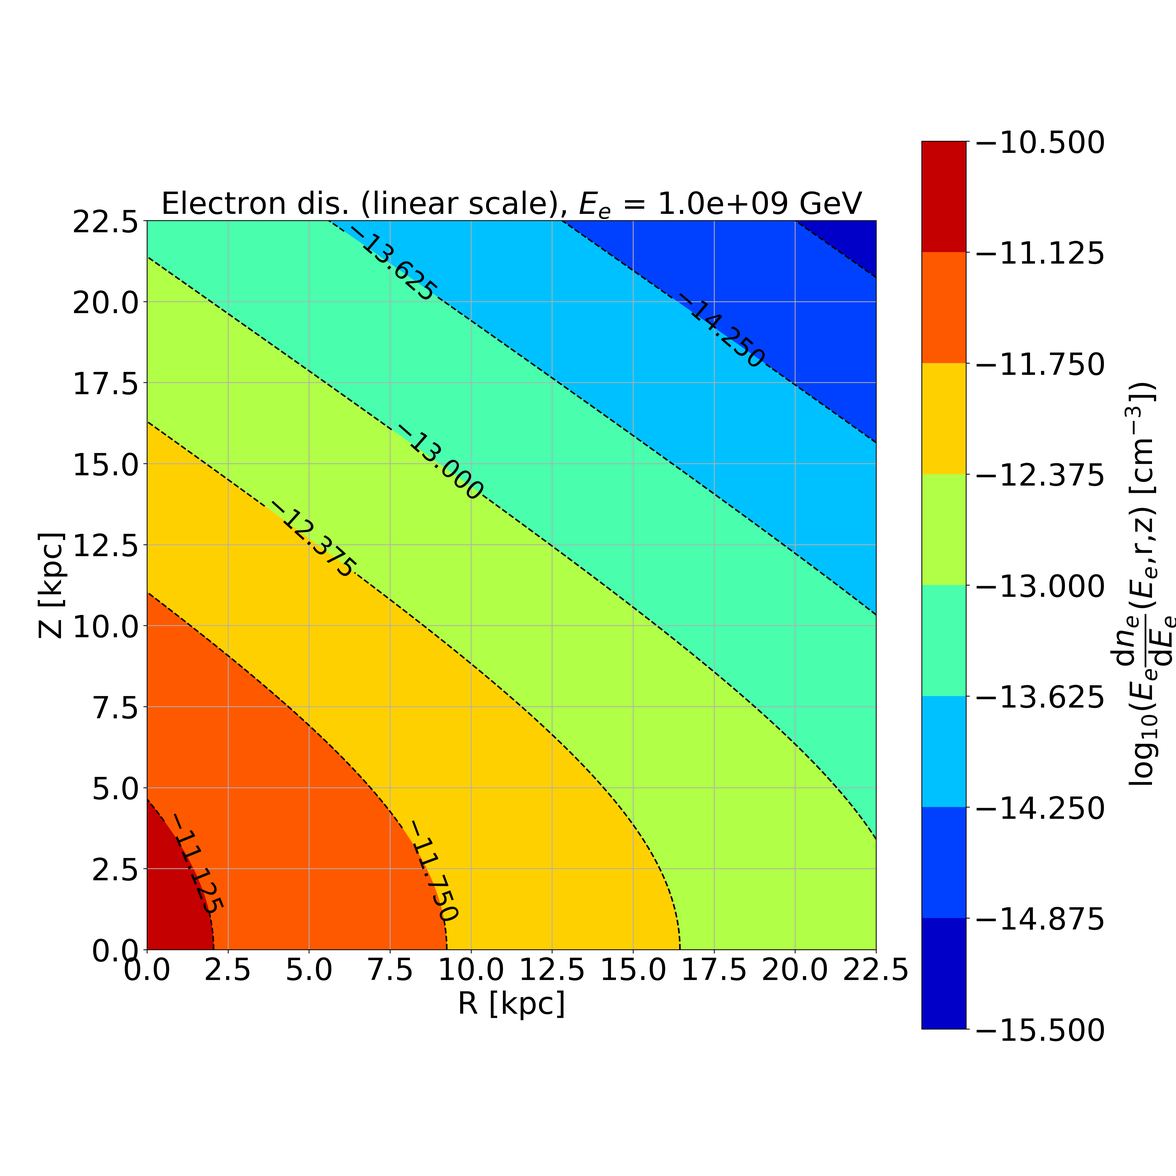
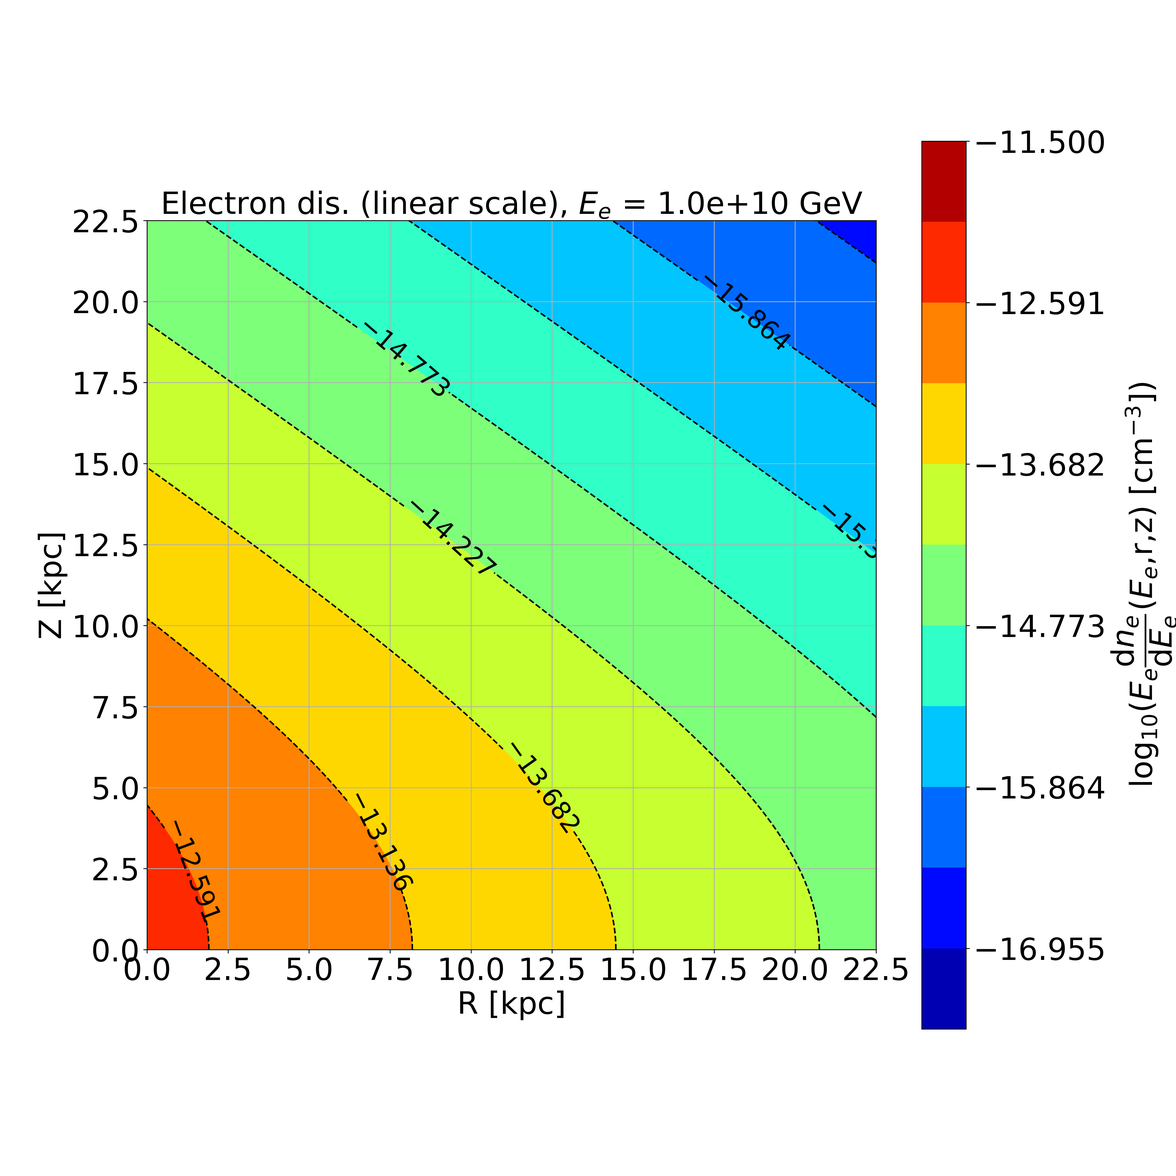
Feb 6

diff --git a/main.tex b/main.tex
@@ -10,6 +10,9 @@
 \usepackage{xspace}
 \usepackage{array}
 \usepackage{cuted}
+\usepackage{tikz}
+\newcommand{\tikzcircle}[2][red,fill=red]{\tikz[baseline=-0.5ex]\draw[#1,radius=#2] (0,0) circle ;}%
+
 \DeclareGraphicsRule{.tif}{png}{.png}{`convert #1 `dirname #1`/`basename #1 .tif`.png}
 
 \definecolor{dg}{rgb}{0.0, 0.6, 0.1}
@@ -73,6 +76,7 @@ The observations from FERMI-LAT \cite{Su_2010} in the gamma ray regime unveiled 
 % Observations from S-PASS and Planck
 With the help of the aforementioned techniques, we can estimate the strength and direction of the magnetic field in different parts of the Galaxy. 
 For the Galactic halo the S-PASS \cite{Carretti_2013} observations  made at 2.3 GHz seem to suggest that the field strength in the halo bubbles can be anywhere between $6-10~\mu $G depending on the proton-electron ratio value adopted. S-PASS \cite{Carretti_2013} observations however are subject to depolarisation of polarised synchrotron radiation via Faraday rotation due to its relatively low observation frequencies. Additionally this data set is not sensitive to a portion of the Fermi bubble region of the sky due to the ground-based location of the instrument allowing only observations in the southern terrestrial hemisphere. For this reason data from Planck and WMAP are more helpful when probing magnetic fields in the Galactic halo due to their all-sky coverage and observation bandwidths which are not sensitive to Faraday rotation effects.
+
 % Short note on non-thermal electron distribution.
 Knowledge of non-thermal electron distribution is critical in the modelling of Galactic magnetic fields, which are both required inputs for the determination of synthetic synchrotron maps.
 We have direct information on the distribution of cosmic ray electrons at Earth from the observations made by AMS01 \cite{AMS_2002} \& \cite{AMS_2014}, CALET \cite{Calet_2017}, DAMPE \cite{Dampe_2017}. However, we do not have much knowledge of the electron distribution in the Galaxy.
@@ -86,7 +90,7 @@ Several efforts have  been made to model the magnetic fields in the Galaxy namel
 %However, when modelling Galactic magnetic fields, Galactic cosmic ray electrons are not the only particles of interest. 
 
 % Importance of UHECRs
-The propagation of cosmic rays is vital to understand their sources, and this in turn is limited by our understanding of the intervening magnetic fields. Unfortunately, both Galactic and extragalactic magnetic fields are presently poorly understood. Arrival direction of extragalactic cosmic rays (with energies higher than $\approx$~$10^{18}$) are also known as ultra high energy cosmic rays (UHECRs). These UHECRs are constituted by charged protons or nuclei, and therefore their origin directions are scrambled by the magnetic fields in the path between the source and earth. The paths of these UHECRs can therefore be drastically changed depending on the strength and geometry of the field. Different models of the Galactic magnetic field give vastly different predictions for the deflection of UHECRs (see e.g.~Ref.~ \cite{FARRAR_2014} \textcolor{blue}{ADD REF}). Recently, significant anisotropies in the UHECR sky have been discovered (see \cite{ICRC_2021} \cite{Auger_Starburst2018} \& \cite{ICRC_2019}. Due to the deflections in the Galactic magnetic fields, the interpretation of these results in terms of the localisation of the UHECR sources is extremely hard and hence, knowledge of Galactic magnetic fields is extremely important. 
+The propagation of cosmic rays is vital to understand their sources, and this in turn is limited by our understanding of the intervening magnetic fields. Unfortunately, both Galactic and extragalactic magnetic fields are presently poorly understood. Arrival direction of extragalactic cosmic rays (with energies higher than $\approx$~$10^{18}$) are also known as ultra high energy cosmic rays (UHECRs). These UHECRs are constituted by charged protons or nuclei, and therefore their origin directions are scrambled by the magnetic fields in the path between the source and earth. The paths of these UHECRs can therefore be drastically changed depending on the strength and geometry of the field. Different models of the Galactic magnetic field give vastly different predictions for the deflection of UHECRs (see e.g.~Ref.~ \cite{JF12},\cite{FARRAR_2014}, \cite{PT11_2011}, \cite{Sun_2008}, \cite{Sun_2010}). Recently, significant anisotropies in the UHECR sky have been discovered (see \cite{ICRC_2021} \cite{Auger_Starburst2018} \& \cite{ICRC_2019}. Due to the deflections in the Galactic magnetic fields, the interpretation of these results in terms of the localisation of the UHECR sources is extremely hard and hence, knowledge of Galactic magnetic fields is extremely important. 
 
 %TA hotspot reference: R. U. Abbasi et al. [Telescope Array collab.], ApJL 790 (2014) L21.
 
@@ -139,7 +143,7 @@ where $\frac{\mathrm{d}n_e}{\mathrm{dlog}E_{e}}$ is the differential electron de
 \centering
 \includegraphics[width=0.49\linewidth]{Images/Linear_EdNdE.png}%
 \includegraphics[width = 0.49\linewidth]{Images/Log_EdNdE.png}
-\caption{An example of the electron distribution for an electron energy (say) $E_e = $1~GeV, $R_{\mathrm{el}} = 5$ kpc and $Z_{\mathrm{el}} = 7$~kpc in linear scale on left and log-scale on right. Since the electron distribution spectra peaks at 1~GeV we show the distribution for 1~GeV. $C_\mathrm{norm}$ value for this plot is $10^{-12.43}~{\rm cm}^{-3}$ (see table~\ref{Para_table}). \Andrew{Think density plot for 10~GeV electrons would make more sense (to avoid confusion).}}  %\Andrew{Why is ref. density in plots so low?}}
+\caption{An example of the electron distribution for an electron energy (say) $E_e = $10~GeV, $R_{\mathrm{el}} = 5$ kpc and $Z_{\mathrm{el}} = 7$~kpc in linear scale on left and log-scale on right.$C_\mathrm{norm}$ value for this plot is $10^{-12.43}~{\rm cm}^{-3}$ (see table~\ref{Para_table}).}  %\Andrew{Why is ref. density in plots so low?}}
 \label{fig:electron_density}
 \end{figure*}
 
@@ -157,7 +161,7 @@ The two polarisation emission components, $J_{\perp}$ and $J_{\parallel}$, descr
 
 %\begin{strip}
 \begin{equation}
- {J_{\perp}^l} = k  \int_{\mathrm{log}E_e^{\mathrm{min}}}^{\mathrm{log}E_e^{\mathrm{max}}}\mathrm{dlog}E_{e} \  \frac{\mathrm{d}n_e}{\mathrm{dlog}E_{e}} \  \left[F\left(\frac{E_{\gamma}}{E_{\gamma}^{\mathrm{peak}}}\right) + G\left(\frac{E_{\gamma}}{E_{\gamma}^{\mathrm{peak}}}\right)\right] \
+ {J_{\perp}^l} = t  \int_{\mathrm{log}E_e^{\mathrm{min}}}^{\mathrm{log}E_e^{\mathrm{max}}}\mathrm{dlog}E_{e} \  \frac{\mathrm{d}n_e}{\mathrm{dlog}E_{e}} \  \left[F\left(\frac{E_{\gamma}}{E_{\gamma}^{\mathrm{peak}}}\right) + G\left(\frac{E_{\gamma}}{E_{\gamma}^{\mathrm{peak}}}\right)\right] \
  \label{Jperp}
 \end{equation}
 %\end{strip}
@@ -167,7 +171,7 @@ and,
 %\begin{strip}
 %\begin{widetext}
 \begin{equation}
-{J_{\parallel}^l} = k \int_{\mathrm{log}E_e^{\mathrm{min}}}^{\mathrm{log}E_e^{\mathrm{max}}}\mathrm{dlog}E_{e} \ \frac{\mathrm{d}n_e}{\mathrm{dlog}E_{e}} \  \left[F\left(\frac{E_{\gamma}}{E_{\gamma}^{\mathrm{peak}}}\right) - G\left(\frac{E_{\gamma}}{E_{\gamma}^{\mathrm{peak}}}\right)\right] 
+{J_{\parallel}^l} = t \int_{\mathrm{log}E_e^{\mathrm{min}}}^{\mathrm{log}E_e^{\mathrm{max}}}\mathrm{dlog}E_{e} \ \frac{\mathrm{d}n_e}{\mathrm{dlog}E_{e}} \  \left[F\left(\frac{E_{\gamma}}{E_{\gamma}^{\mathrm{peak}}}\right) - G\left(\frac{E_{\gamma}}{E_{\gamma}^{\mathrm{peak}}}\right)\right] 
 \label{Jpara}
 \end{equation}
 %\end{widetext}
@@ -176,7 +180,7 @@ and,
 
 where the functions,
 \begin{align}
-k = \frac{B_{\perp}}{B_{\mathrm{crit}}}\frac{m_{e}}{h} \frac{8\pi \alpha}{9}
+t = \frac{B_{\perp}}{B_{\mathrm{crit}}}\frac{m_{e}}{h} \frac{8\pi \alpha}{9}
 \\
 F(x) &= x \int_x^\infty K_{5/3}(x') dx'\\
 G(x) &= x K_{2/3}.
@@ -187,7 +191,6 @@ These expressions are provided in terms of the critical magnetic field strength,
 
 For clarity, several of the conventions we adopted are here noted. The parallel component of polarisation (${J_{\parallel}}$) is orientated in the same direction as  $\vec{B_{\perp}}$, and the perpendicular component of polarisation (${J_{\perp}}$) is perpendicular to $\vec{B_{\perp}}$. The Stokes parameters at each point along the line of sight can be written in terms of the intrinsic polarisation angle $\Psi^l_{\rm in}$ which is the angle between the line of sight perpendicular component of the magnetic field $B_{\perp}$ and Galactic south at each step. The conventions adopted here match those used by the Planck collaboration \cite{Planck_XIX} based on the $\rm HEALPix^3$~\footnote{\textcolor{purple}{https://healpix.jpl.nasa.gov/}} software by \cite{Healpix_2005}. For each step along the line-of-sight, both  ${J_{\perp}^l}$ and ${J_{\parallel}^l}$ are subsequently used to obtain the $Q$ and $U$ Stokes parameters. We obtain the values of $Q^{\rm tot}_{\rm in}$ and $U^{\rm tot}_{\rm in}$ by integrating it over the line-of-sight volume:
 
-\Vasu{Still to discuss}
 \begin{eqnarray}
 Q_{\rm in}^{\rm tot} = \frac{1}{4\pi} {\int_0^L \mathrm{d}l \ ({J_{\perp}^l} - J_{\parallel}^l) \ {\cos}(2\Psi^l_{\rm in}) } \\
 U_{\rm in}^{\rm tot} =\frac{1}{4\pi} {\int_0^L \mathrm{d}l \ ({J_{\perp}^l} - J_{\parallel}^l) \ {\sin}(2\Psi^l_{\rm in})} \,
@@ -200,7 +203,7 @@ I_{\rm pol} = \sqrt{(Q_{\rm in}^{\rm tot})^2+(U_{\rm in}^{\rm tot})^2} = J_{\per
 \end{eqnarray}
 Similarly, $I_{\rm tot}$ is computed by summing the contributions of $J_{\perp}^l$ and and $J_{\parallel}^l$ for each point along the line of sight,
 \begin{equation} \label{eq_I_tot}
-    I_{\rm tot} = \int_0^L \mathrm{d}l (J_{\perp}^l + J_{\parallel}^l).
+    I_{\rm tot} = \frac{1}{4\pi} \int_0^L \mathrm{d}l (J_{\perp}^l + J_{\parallel}^l).
 \end{equation}
 % \Andrew{NEEDS STATING IN A MATHEMATIC LANGUAGE.}
 $J_{\perp}^{\rm tot}$ and $J_{\parallel}^{\rm tot}$ are the resultant magnitudes of emissions in perpendicular and parallel directions and can be given by:
@@ -290,34 +293,36 @@ Charged particles propagating through magnetic fields, precess around the field 
 \begin{eqnarray}
 \frac{{\rm d}\bfm{\beta}}{c{\rm d}t} = \frac{1}{r_{L}}\bfm{\beta}\times \bfm{\hat{B}}, 
 \end{eqnarray}
-where $\bfm{\beta}$ is the particle's velocity vector, and $r_{L}$ is the particle's Larmor radius. UHECRs undergo the same Lorentz force when propagating through Galactic magnetic fields. The extragalactic magnetic field is considered to be weak, with $B < \rm {nG}$ for $\lambda_{\rm coh}=1$~Mpc \cite{Blasi} \Andrew{wrong reference- Blasi }, \cite{Kronberg_2007}, and the ultra-high energy cosmic rays UHECRs $E > 10^{19}$ EeV and subsequently $r_{L}>{\rm 10~Mpc}$ are therefore not sensitive to them over 10~Mpc propagation distance scales. However, once they enter the Galaxy magnetic fields are of the order of few $\mu$G. In case for a proton at 6~EeV in $6~\mu$G field the $r_L \approx 1 ~ \rm kpc$ , this implies that the proton will be subject to deflection by the large scale Galactic magnetic fields.
+where $\bfm{\beta}$ is the particle's velocity vector, and $r_{L}$ is the particle's Larmor radius. UHECRs undergo the same Lorentz force when propagating through Galactic magnetic fields. The extragalactic magnetic field is considered to be weak, with $B < \rm {nG}$ for $\lambda_{\rm coh}=1$~Mpc \cite{Blasi} \Andrew{wrong reference- Blasi }, \cite{Kronberg_2007}, and the ultra-high energy cosmic rays UHECRs $E > 10^{19}$ EeV and subsequently $r_{L}>{\rm 10~Mpc}$ are therefore not sensitive to them over 10~Mpc propagation distance scales. However, once they enter the Galaxy, magnetic fields are of the order of a few $\mu$G. In case of a proton at 6~EeV in $6~\mu$G field the $r_L \approx 1 ~ \rm kpc$, this implies that the proton will be subject to deflection by the large scale Galactic magnetic fields.
 
-We use the publicly available cosmic ray propagation code CRPropa3 \cite{CRPropa3_2016} for studying the effects of toy model magnetic fields on the arrival directions of cosmic rays. Within this software we use Boris pusher scheme in order to ensure particle's trajectory evolution satisfies the Lorentz force equation. It is important to note that CRPropa conserves the total energy each particle during the propagation.
+We use the publicly available cosmic ray propagation code CRPropa3 \cite{CRPropa3_2016} for studying the effects of toy model magnetic fields on the arrival directions of cosmic rays. Within this software we use the Boris pusher scheme in order to ensure a particle's trajectory evolution satisfies the Lorentz force equation. It is important to note that CRPropa conserves the total energy of each particle during the propagation.
 %% Setup description
-We propagate $10^7$ cosmic rays starting at earth isotropically through the toy model using backtracking scheme up to a distance of 20~kpc from the Galactic center. We use nitrogen as a choice of our cosmic ray particles at 40~EeV energy. 
+We propagate $10^7$ cosmic rays starting at earth isotropically through the toy model using the backtracking scheme up to a distance of 20~kpc from the Galactic center. We use nitrogen as a choice of our cosmic ray particles at 40~EeV energy. 
 
 \subsection{The Effect of Magnetic Field Model on UHECR Arrival}
 
-In figure~\ref{fig:AD_Plots} we show :
+In figure~\ref{fig:AD_Plots} we show:
 
 \begin{enumerate}
-    \item Magnification map in log (particles/str) of the backtracked positions for the cosmic rays (\textbf{left}). These magnification maps are made for the best-fit values (\textbf{top}), the lower bound or minimum values (\textbf{middle}) and the upper bound or maximum (\textbf{bottom}).
-    To create the these histograms we used 180 bins for both latitude and longitude. 
-    We normalise these magnification maps made with toy model fields by dividing them with maps made without any magnetic fields. In each map the blue regions denote the areas of the sky where cosmic rays are suppressed and the red regions are the ones will have an abundance of cosmic rays. These regions are sensitive to both structured and turbulent field strengths and therefore the maximum case has a larger region of suppression in comparison to best-fit and minimum cases (see table \ref{Para_table}). This effect of magnetic fields can be seen for CenA (lat = $\rm 19.42^{\circ}$, lon = $\rm 50.49^{\circ}$) and NGC 253 (lat = $\rm -87.96^{\circ}$, lon = $\rm 97.36^{\circ}$) because of their positioning both the sources lie in the suppression region in the maximum case.
-    \item Skymap for arrival direction
-    of cosmic rays from two known potential UHECRs sources CenA and NGC 253 on the (\textbf{right}). Similar to the above case of the magnification maps we backtrack cosmic rays starting from earth till 20~kpc. In a region of $5^{\circ}$ from the source we plot the arrival directions of cosmic rays. Like the magnification maps we normalise these maps with no magnetic field maps.  This gives us a normalised value of the number of hits obtained as seen on the \textbf{right}.Analogous to magnification maps the \textbf{top}, \textbf{middle} and \textbf{bottom} plots denote the best-fit, minimum and maximum cases. We also estimate the mean value of the $5^{\circ}$ spread and the mean direction denoted by a $'\cdot'$. 
+    \item The magnification maps in log (particles/str) of the backtracked positions for the cosmic rays (\textbf{left}). These magnification maps are made for the best-fit values (\textbf{top}), the lower bound or minimum values (\textbf{middle}) and the upper bound or maximum (\textbf{bottom}) values of the parameters.
+    To create these histograms we used 180 bins for both latitudes and longitudes. 
+    We normalise these maps made with the toy model fields by dividing them with maps made without any magnetic fields. In each map the blue regions denote the areas of the sky where cosmic rays are suppressed and the red regions are the ones where the cosmic rays are abundant. The UHECR deflections are sensitive to both structured and turbulent fields and therefore the maximum case has a larger region of suppression in comparison to best-fit and minimum cases (see table \ref{Para_table}). This suppression and enhancement of UHECRs is also shown for two potential UHECR sources CenA (lat = $\rm 19.42^{\circ}$, lon = $\rm 50.49^{\circ}$) and NGC 253 (lat = $\rm -87.96^{\circ}$, lon = $\rm 97.36^{\circ}$). Because of their positioning in the sky both the sources lie in the suppression region in the maximum case.
+    \item Skymap for arrival directions
+    of cosmic rays from UHECRs sources CenA and NGC 253 on the (\textbf{right}). Similar to the above case of the magnification maps we backtrack cosmic rays starting from earth till 20~kpc. In a region of $5^{\circ}$ from the source we plot the arrival directions of cosmic rays. Like the magnification maps we normalise these maps with no magnetic field maps.  This gives us a normalised value of the number of hits obtained. Analogous to magnification maps the \textbf{top}, \textbf{middle} and \textbf{bottom} plots denote the best-fit, minimum and maximum cases. We also estimate the mean value of the $5^{\circ}$ spread and the mean direction denoted by a \tikzcircle[black,fill = black]{2pt}. 
     The standard deviation for each source in each case is as follows:
     \begin{enumerate}
-        \item Best fit $\sigma^2_{\rm NGC 253} = $ 0.13~str , $\sigma^2_{\rm Cen A} = $0.12~str, {($\sigma_{\rm Cen~~}=20^{\circ}$)}
-        \item Maximum $\sigma^2_{\rm NGC 253} = $0.46~str, $\sigma^2_{\rm Cen A} = $0.37~str , {($\sigma_{\rm Cen~~}=35^{\circ}$)}
-        \item Minimum $\sigma^2_{\rm NGC 253} = $~0.061~str, $\sigma^2_{\rm Cen A} = $~0.066~str \Andrew{($\sigma_{\rm Cen~~}=14^{\circ}$)}\newline
+        \item Best fit $\sigma^2_{\rm NGC 253} = $ 0.13~str ($\sigma_{\rm NGC 253} = 20.65^{\circ}$ ), $\sigma^2_{\rm Cen A} =$ 0.12~str, {($\sigma_{\rm Cen~~}=20^{\circ}$)}
+        \item Maximum $\sigma^2_{\rm NGC 253} = $0.46~str ($\sigma_{\rm NGC 253} = 26.4^{\circ}$), $\sigma^2_{\rm
+        Cen A} = $0.37~str , {($\sigma_{\rm Cen~~}=35^{\circ}$)}
+        \item Minimum $\sigma^2_{\rm NGC 253} = $~0.061~str ($\sigma_{\rm NGC 253} = 3.5^{\circ}$), $\sigma^2_{\rm Cen A} = $~0.066~str {($\sigma_{\rm Cen~~}=14^{\circ}$)}
+        \newline
         \Andrew{perhaps better to quote $\sigma_{a}= b^{\circ}$}
     \end{enumerate}
 
-    It can be seen that in the maximum case it is harder to associate the cosmic rays to a source in comparison to best first or minimum case. This is due the fact that though structured fields dictate the direction of the deflection the turbulent fields spread out the directions. This is why when the turbulent fields as are stronger the arriving directions are spread out entirely over the sky making source localisation hard.
+    It can be seen that in the maximum case it is harder to associate the cosmic rays to a source in comparison to best-fit or minimum case. This is due the fact that though structured fields dictate the direction of the deflection the turbulent fields spread out the directions. This is why when the turbulent fields are stronger the arriving directions are spread out entirely over the sky.
     \end{enumerate}
     
-From both the magnification and arrival direction maps in \ref{fig:AD_Plots}. it is evident that the best fit and lower extreme (minimum) parameters can clearly help in associating the deflected particles with their potential source. However, in the upper extreme (maximum) parameters any connection between the point of origin of cosmic rays and their final positions is inconclusive. Cosmic rays from  sources like NGC253 get completely deflected by the magnetic field and hence we obtain a suppressed flux $\approx 5\%$ . In case of Centaurus A the final positions are spread out on the entire sky making it impossible to associate it with the source.
+From both the magnification and arrival direction maps in \ref{fig:AD_Plots}. it is evident that the best fit and lower extreme (minimum) parameters can clearly help in associating the deflected particles with their potential source. However, in the upper extreme (maximum) parameters any connection between the point of origin of cosmic rays and their final positions is inconclusive. Cosmic rays from  sources like NGC253 get completely deflected by the magnetic field and hence we obtain a suppressed flux $\approx 5\%$. In case of Centaurus A the final positions are spread out on the entire sky making it impossible to associate it with the source.
 
  %In table~{\ref{AD_table}} we show the 
 %%%%%%%%%%%%%%%%%%%%%%%%%%%%%%%%%%%%%%%%%%%%%%%%%%%%%%%%%%%%%%%%%%%%%%%%%%%%%%%%%%%%%%%%%%%%%%%%%%%%%%%%%%%%%%
@@ -400,7 +405,7 @@ From both the magnification and arrival direction maps in \ref{fig:AD_Plots}. it
 \includegraphics[width=0.49\linewidth]{Images/Log_Bins_180_Historgam_UB_N2_Str_Tur_TM_40_EeV.png}
 \includegraphics[width=0.49\linewidth]{Images/Bins_180_UB_N2_CenA_NGC253_Str_Tur_TM_40_EeV.png}\
 \hspace*{+9cm}                                      \includegraphics[width=0.50\linewidth]{Images/Colorbar.png}
-\caption{Log brightness of the backtracked positions for cosmic rays shown on \textbf{left} and the binned arrival directions of the cosmic rays from two known sources Cen A and NGC 253 on \textbf{right} (From table~\ref{Para_table} \textbf{Top} - Best Fit Parameters, {\textbf{Middle} - Lower extreme parameters)} \& {\textbf{Bottom} - Upper extreme parameters, we use $R_{\rm Mag} = $ 20~kpc since that is the maximum extent of the magnetic fields in our simulation. The grey colour bar is to denote the intensity of the hits for the plots on the \textbf{right}. }
+\caption{Log brightness of the backtracked positions for cosmic rays shown on \textbf{left} and the binned arrival directions of the cosmic rays from two known sources Cen A and NGC 253 on \textbf{right} (From table~\ref{Para_table} \textbf{Top} - Best Fit Parameters, {\textbf{Middle} - Lower extreme parameters)} \& {\textbf{Bottom} - Upper extreme parameters, we use $R_{\rm Mag} = $ 20~kpc since that is the maximum extent of the magnetic fields in our simulation. The grey colour bar is to denote the intensity of the hits for the plots on the \textbf{right}. We  plot these maps by normalising them with the case of no magnetic fields.}
 \Vasu{describe the normalisation}}
 \label{fig:AD_Plots}
 \end{figure*}
@@ -413,25 +418,23 @@ From both the magnification and arrival direction maps in \ref{fig:AD_Plots}. it
 % \end{frame}
 \section{Conclusions}
 \label{Conclusions}
-One primary conclusion of our study is to highlight the importance of the presence of magnetic fields and non-thermal electrons at high latitudes in order to explain the radio observations. It is important to note that for equipartition of energy to be valid if magnetic fields dominate then electron density has to be lower.
+One primary conclusion of our study is to highlight the importance of the presence of magnetic fields and non-thermal electrons at high latitudes in order to explain the radio observations. It is important to note that for equipartition of energy \cite{Drury_2012} to be valid if magnetic fields dominate then electron density has to be lower.
 %By definition of equipartition of energy the ratio between thermal pressure and magnetic pressure also known as plasma $\beta$ condition the magnetic the total energy in magnetic fields should be comparable to thermal particles \cite{Drury_2012}.
-Our toy model motivates magnetic field with a total energy content of $\approx 10^{55}$~ergs and the total energy in cosmic ray protons at 1 GeV $\approx 4\times 10^{55}$~ergs. These values are comparable with observations made by \cite{Su_2010} and \cite{eROSITA}.In comparison the total energy values in the halo fields of the JF12 model $4\times 10^{54}$~ergs and $3\times  10^{54}$~ergs for the torroidal halo and X-field respectively \cite{Taylor_2019}.
-Another inference 
+Our toy model motivates magnetic field with a total energy content of $\approx 10^{55}$~ergs and the total energy in cosmic ray protons at 1 GeV $\approx 4\times 10^{55}$~ergs. These values are comparable with observations made by \cite{Su_2010} and \cite{eROSITA}. In comparison the total energy values in the halo fields of the JF12 model $4\times 10^{54}$~ergs and $3\times  10^{54}$~ergs for the torroidal halo and X-field respectively \cite{Taylor_2019}.
+
+Another important conclusion of this study is the effect of propagation of uncertainities in the arrival directions of UHECRs. The large uncertainties on the magnetic fields can make source localisation for UHECRs impossible.
+Therefore, the halo region of the magnetic field cannot be ignored while modelling Galactic magnetic fields. 
+
+\Vasu{Incomplete still, we need more to be added.}
+Observations from LOFAR and SKA will provide useful insight at different radio frequencies and thus can be helpful to model the Galactic magnetic fields.
+
 \begin{enumerate}
 
-    \item The presence of magnetic fields and non-thermal electrons at high galactic latitudes are necessary to explain the synchrotron radiation observed. if m should equipartition exist. %parameters are delicately balanced !
-    \item 
-    \item Plasma $\beta$ condition ?! 
+ 
     \item Variance for the different maps:
     
     \item High uncertainities in parameters means we need better probes to constrain the models. LOFAR and SKA radio band but different frequencies might be helpful
-    \item the arrival directions of cosmic rays are sensitive to the strengths of the field and should 
-    the turbulent field be very high source localisation will be impossible
-    \item provide the value of the variances
-    
-    \Vasu{Introduce the definition of energy 
-    densities}
-    
+   
 \end{enumerate}
 
 %\clearpage
